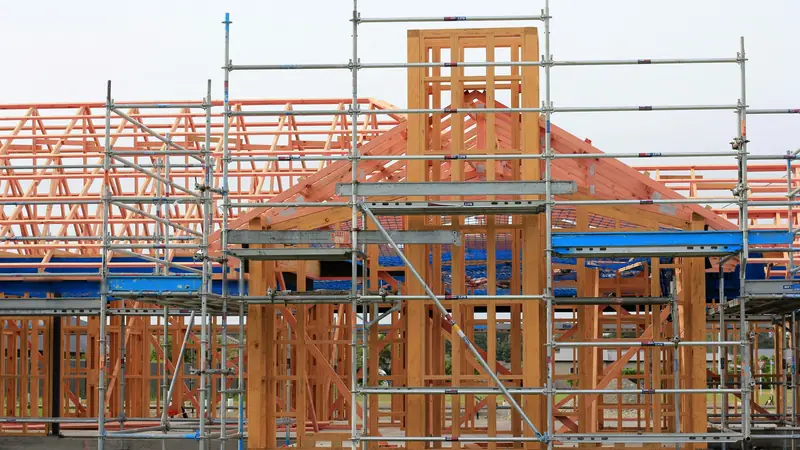
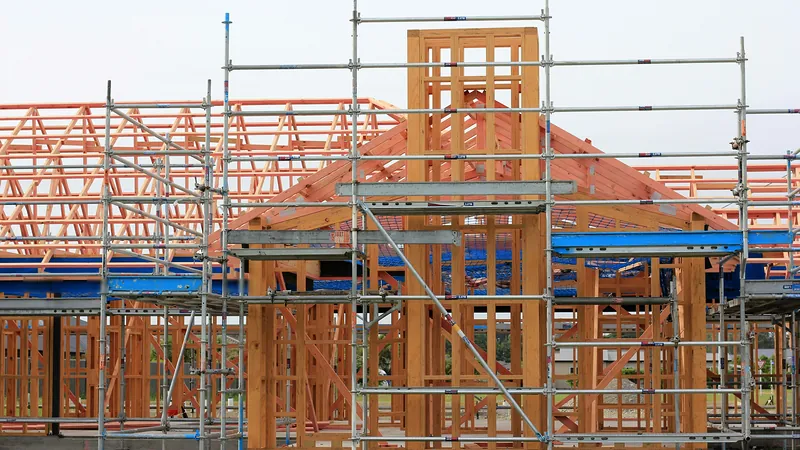
Hero photos at full resolution; the 3D house no longer slows scrolling on phones
Hero: re-cut from the 4000px retouched originals at 800/1600/2400/3200 (16:9) and 800/1200/1600 for phones
(2:3), lightly sharpened, same framing as before (the house-frame phone crop keeps its covered stickers).
3D house: the build is about 2.5x lighter (drawn grain instead of pixel read-back, no unused edge lines), and on
phones it has no idle turn, draws every other frame while a stage changes, lower pixel ratio and simpler shadows.

Claude-Session: https://claude.ai/code/session_01NUNLhJrusTmTFauQM2HaBr

Changed region(s): [[0.25, 0.3422, 0.2812, 0.3733]]

diff --git a/assets/build/s-layers-3d-model.js b/assets/build/s-layers-3d-model.js
@@ -11,13 +11,16 @@ export function build(T) {
   const LITE = root.classList.contains('lite');
   const COARSE = matchMedia('(pointer:coarse)').matches;
   const FINE = matchMedia('(pointer:fine)').matches;
-  const EDGES = !LITE;
   /* the idle turn: a page can switch it off (--l3-sway:0 on .layers-model, e.g. on phones); the model then holds a still
      frame and draws only while it explodes, settles or is dragged */
-  const SWAY = !REDUCE && getComputedStyle(box).getPropertyValue('--l3-sway').trim() !== '0';
+  let SWAY = !REDUCE && getComputedStyle(box).getPropertyValue('--l3-sway').trim() !== '0';
   /* real look: a page can ask for the house in real colours and textures on its block of land (--l3-real:1 on
      .layers-model) instead of the theme-tinted drafting model on grid paper */
   const REAL = getComputedStyle(box).getPropertyValue('--l3-real').trim() === '1';
+  /* phones (real look): no idle turn, so the house draws only while a stage changes and scrolling past it costs nothing */
+  if (REAL && COARSE) SWAY = false;
+  /* the drafting edge lines: the real look never shows them, so they are not built (a large part of the build time) */
+  const EDGES = !LITE && !REAL;
   const now = () => performance.now();
   const rad = a => a * Math.PI / 180;
 
@@ -297,12 +300,12 @@ export function build(T) {
   /* ---------- scene ---------- */
   let renderer;
   try { renderer = new T.WebGLRenderer({ antialias: !LITE, alpha: true, powerPreference: 'low-power' }); } catch (e) { return; }
-  renderer.setPixelRatio(Math.min(devicePixelRatio || 1, 1.5));
+  renderer.setPixelRatio(Math.min(devicePixelRatio || 1, REAL && COARSE ? 1.25 : 1.5));
   renderer.debug.checkShaderErrors = false; /* skips the blocking shader-log reads; the shaders are fixed and tested */
   renderer.setClearColor(0x000000, 0);
   if (REAL) { renderer.toneMapping = 4; /* ACES filmic (the slim build does not export the constant) */ renderer.toneMappingExposure = 1.05; }
   renderer.shadowMap.enabled = true;
-  renderer.shadowMap.type = T.PCFSoftShadowMap;
+  renderer.shadowMap.type = REAL && COARSE ? 1 /* PCF: simpler edges, much cheaper on phones */ : T.PCFSoftShadowMap;
   /* the shadow map is redrawn only when a layer, its fade or the sun moves, never for a camera turn alone */
   renderer.shadowMap.autoUpdate = false; renderer.shadowMap.needsUpdate = true;
   const cv = renderer.domElement; cv.className = 'l3-cv'; cv.setAttribute('aria-hidden', 'true');
@@ -320,7 +323,9 @@ export function build(T) {
   if (REAL) {
     const tex = (w, h, draw, rep) => { const c = d.createElement('canvas'); c.width = w; c.height = h; const x = c.getContext('2d'); draw(x, w, h);
       const t = new T.CanvasTexture(c); t.wrapS = t.wrapT = T.RepeatWrapping; t.colorSpace = T.SRGBColorSpace; t.anisotropy = Math.min(8, renderer.capabilities.getMaxAnisotropy()); t.userData = { rep }; return t; };
-    const noise = (x, w, h, lo, hi) => { const im = x.getImageData(0, 0, w, h), q = im.data; for (let i = 0; i < q.length; i += 4) { const n = lo + Math.random() * (hi - lo); q[i] *= n; q[i + 1] *= n; q[i + 2] *= n; } x.putImageData(im, 0, 0); };
+    /* grain: scattered light and dark specks (drawn, so no slow pixel read-back) */
+    const noise = (x, w, h, lo, hi) => { for (let i = 0, m = w * h / 5; i < m; i++) { const n = lo + Math.random() * (hi - lo);
+      x.fillStyle = n < 1 ? `rgba(0,0,0,${(1 - n).toFixed(3)})` : `rgba(255,255,255,${(n - 1).toFixed(3)})`; x.fillRect(Math.random() * w | 0, Math.random() * h | 0, 1, 1); } };
     /* Colorbond roof: ribs every 190 mm, running down the slope */
     TXR.roof = tex(32, 4, (x, w, h) => { const g = x.createLinearGradient(0, 0, w, 0); g.addColorStop(0, '#d9d9d9'); g.addColorStop(.12, '#ffffff'); g.addColorStop(.22, '#9a9a9a'); g.addColorStop(.3, '#e6e6e6'); g.addColorStop(1, '#eeeeee'); x.fillStyle = g; x.fillRect(0, 0, w, h); }, 'rib');
     /* weatherboards with a faint grain */
@@ -416,7 +421,7 @@ export function build(T) {
   const site = [];
   if (REAL) {
     ground.visible = false; grid.visible = false;
-    const S = 40, N = LITE ? 512 : 1024, k = N / S, gc = d.createElement('canvas'); gc.width = gc.height = N;
+    const S = 40, N = LITE ? 512 : COARSE ? 768 : 1024, k = N / S, gc = d.createElement('canvas'); gc.width = gc.height = N;
     const g = gc.getContext('2d'), X = x => (x + S / 2) * k, Z = z => (z + S / 2) * k;
     const rect = (c, x0, x1, z0, z1) => { g.fillStyle = c; g.fillRect(X(x0), Z(z0), (x1 - x0) * k, (z1 - z0) * k); };
     const LXW = 9, LZB = -8, LZF = 8.4;
@@ -429,7 +434,10 @@ export function build(T) {
     rect('#bdb8ae', -S / 2, S / 2, 12.2, 12.5);                                      /* the kerb */
     g.strokeStyle = 'rgba(70,60,45,.35)'; g.lineWidth = Math.max(1, k * .05); g.strokeRect(X(-LXW), Z(LZB), 2 * LXW * k, (LZF - LZB) * k); /* the boundary */
     /* grass: every pixel a slightly different green, so the lawn has texture rather than flat paint */
-    { const im = g.getImageData(0, 0, N, N), q = im.data; for (let i = 0; i < q.length; i += 4) { const n = .86 + Math.random() * .22, y = .97 + Math.random() * .06; q[i] *= n; q[i + 1] *= n * y; q[i + 2] *= n; } g.putImageData(im, 0, 0); }
+    /* (a small noise tile laid over the whole ground: a fraction of the work of noising every pixel) */
+    { const t = d.createElement('canvas'); t.width = t.height = 96; const tg = t.getContext('2d'), im = tg.createImageData(96, 96), q = im.data;
+      for (let i = 0; i < q.length; i += 4) { const v = Math.random(); q[i] = q[i + 1] = q[i + 2] = v < .5 ? 0 : 255; q[i + 3] = Math.round(Math.abs(v - .5) * 2 * 34); }
+      tg.putImageData(im, 0, 0); g.save(); g.globalCompositeOperation = 'soft-light'; g.fillStyle = g.createPattern(t, 'repeat'); g.fillRect(0, 0, N, N); g.restore(); }
     /* fade the edges out into the panel's ground */
     g.globalCompositeOperation = 'destination-in';
     const rg = g.createRadialGradient(X(0), Z(1.5), 9 * k, X(0), Z(1.5), 19.5 * k); rg.addColorStop(0, '#000'); rg.addColorStop(1, 'rgba(0,0,0,0)');
@@ -464,7 +472,7 @@ export function build(T) {
   const hemi = new T.HemisphereLight(0xffffff, 0xffffff, 2.1); scene.add(hemi);
   const sun = new T.DirectionalLight(0xffffff, 1.35);
   sun.position.set(-6, 20, 14); sun.castShadow = true;
-  const SM = LITE ? 1024 : COARSE ? 1536 : 2048;
+  const SM = LITE || (REAL && COARSE) ? 1024 : COARSE ? 1536 : 2048;
   sun.shadow.mapSize.set(SM, SM);
   Object.assign(sun.shadow.camera, { left: -19, right: 19, top: 19, bottom: -19, near: 1, far: 80 });
   sun.shadow.bias = -.0006; sun.shadow.normalBias = .03;
@@ -659,7 +667,10 @@ export function build(T) {
   let raf = 0, last = 0, onScreen = false, ready = false, sunX = NaN, sunY = NaN, sunZ = NaN;
   const scr = new T.Vector3();
   function proj(v) { scr.copy(v).project(camera); return [(scr.x + 1) / 2 * vw, (1 - scr.y) / 2 * vh]; }
+  let fc = 0;
   function frame() {
+    /* phones (real look): while a stage changes, draw every other frame; the page itself still scrolls at full rate */
+    if (REAL && COARSE && ready && !drag && (++fc & 1)) { raf = requestAnimationFrame(frame); return; }
     const t = now(); raf = 0; const dt = Math.min(50, last ? t - last : 16); last = t;
     let moving = false;
     layers.forEach(ly => { ['lift', 'on', 'dim', 'lab', 'drop', 'grow', 'cut'].forEach(k => { if (step(ly, k, t)) moving = true; }); });

diff --git a/designs/13-your-build/index.html b/designs/13-your-build/index.html
@@ -23,8 +23,8 @@
 @font-face{font-family:"Fraunces";font-style:italic;font-weight:600;font-display:swap;src:url(../../assets/fonts/fraunces-600-italic.woff2) format("woff2");unicode-range:U+0000-00FF, U+0131, U+0152-0153, U+02BB-02BC, U+02C6, U+02DA, U+02DC, U+0304, U+0308, U+0329, U+2000-206F, U+20AC, U+2122, U+2191, U+2193, U+2212, U+2215, U+FEFF, U+FFFD}
 @font-face{font-family:"Work Sans";font-style:normal;font-weight:400 600;font-display:swap;src:url(../../assets/fonts/work-sans.woff2) format("woff2");unicode-range:U+0000-00FF, U+0131, U+0152-0153, U+02BB-02BC, U+02C6, U+02DA, U+02DC, U+0304, U+0308, U+0329, U+2000-206F, U+20AC, U+2122, U+2191, U+2193, U+2212, U+2215, U+FEFF, U+FFFD}
 </style>
-<link rel="preload" as="image" href="../../img/con-site-portrait-800.webp" media="(max-width:700px) and (orientation:portrait)" fetchpriority="high">
-<link rel="preload" as="image" imagesrcset="../../img/con-site-800.webp 800w, ../../img/con-site-1600.webp 1600w, ../../img/con-site-2400.webp 2400w" imagesizes="100vw" media="not all and (max-width:700px) and (orientation:portrait)" fetchpriority="high">
+<link rel="preload" as="image" imagesrcset="../../img/con-site-portrait-800.webp 800w, ../../img/con-site-portrait-1200.webp 1200w" imagesizes="100vw" media="(max-width:700px) and (orientation:portrait)" fetchpriority="high">
+<link rel="preload" as="image" imagesrcset="../../img/con-site-800.webp 800w, ../../img/con-site-1600.webp 1600w, ../../img/con-site-2400.webp 2400w, ../../img/con-site-3200.webp 3200w" imagesizes="100vw" media="not all and (max-width:700px) and (orientation:portrait)" fetchpriority="high">
 <script>document.documentElement.classList.add('js');if(matchMedia('(pointer:coarse)').matches&&(navigator.hardwareConcurrency||8)<=4)document.documentElement.classList.add('lite')/* low-power phones, set before the first style pass */</script>
 <script src="../../assets/themes.js?v=1"></script>
 <script>if(/^\/(home-2\/?)?$/.test(location.pathname)||/[?&]design=flair\b/.test(location.search))document.documentElement.classList.add('flair')</script>
@@ -267,7 +267,7 @@ input:focus,select:focus,textarea:focus{outline:2px solid var(--rust);outline-of
 <link rel="stylesheet" href="../../assets/build/harbour.css?v=1">
 <link rel="stylesheet" href="../../assets/build/grad.css?v=1">
 <link rel="stylesheet" href="../../assets/build/land.css?v=9">
-<script type="module" src="../../assets/build/s-layers-3d.js?v=10" fetchpriority="low"></script>
+<script type="module" src="../../assets/build/s-layers-3d.js?v=12" fetchpriority="low"></script>
 </head>
 <body>
 <a class="skip" href="#main">Skip to content</a>
@@ -304,8 +304,8 @@ input:focus,select:focus,textarea:focus{outline:2px solid var(--rust);outline-of
   </svg>
   <!-- building work: this first photo is the LCP; hero-sydney.js adds roof trusses, a high-rise and a house frame after load -->
   <div class="hero-img" data-scenes="con-trusses con-tower con-frame">
-    <picture><source media="(max-width:700px) and (orientation:portrait)" srcset="../../img/con-site-portrait-800.webp" width="800" height="1200">
-    <img src="../../img/con-site-1600.webp" srcset="../../img/con-site-800.webp 800w, ../../img/con-site-1600.webp 1600w, ../../img/con-site-2400.webp 2400w" sizes="100vw" width="1600" height="900" alt="Cranes at work beside new office towers in Parramatta, Sydney" fetchpriority="high" decoding="async"></picture>
+    <picture><source media="(max-width:700px) and (orientation:portrait)" srcset="../../img/con-site-portrait-800.webp 800w, ../../img/con-site-portrait-1200.webp 1200w" sizes="100vw" width="800" height="1200">
+    <img src="../../img/con-site-1600.webp" srcset="../../img/con-site-800.webp 800w, ../../img/con-site-1600.webp 1600w, ../../img/con-site-2400.webp 2400w, ../../img/con-site-3200.webp 3200w" sizes="100vw" width="1600" height="900" alt="Cranes at work beside new office towers in Parramatta, Sydney" fetchpriority="high" decoding="async"></picture>
   </div>
   <p class="hero-note sc">Illustrative photo</p>
   <div class="door">
@@ -1018,7 +1018,7 @@ input:focus,select:focus,textarea:focus{outline:2px solid var(--rust);outline-of
 <script src="../../assets/concepts.js?v=6" defer></script>
 <script src="../../assets/build/book.js?v=5" defer></script>
 <script src="../../assets/build/your-build.js?v=6" defer></script>
-<script src="../../assets/build/hero-sydney.js?v=3" defer></script>
+<script src="../../assets/build/hero-sydney.js?v=4" defer></script>
 <script src="../../assets/build/svc-plus.js?v=4" defer></script>
 <script src="../../assets/build/energy.js?v=3" defer></script>
 <script src="../../assets/build/flair.js?v=2" defer></script>

diff --git a/assets/build/hero-sydney.js b/assets/build/hero-sydney.js
@@ -17,8 +17,8 @@
       var f = d.createElement('div');
       f.className = 'hs-scene';
       f.setAttribute('aria-hidden', 'true');
-      f.innerHTML = '<picture><source media="(max-width:700px) and (orientation:portrait)" srcset="' + dir + n + '-portrait-800.webp" width="800" height="1200">' +
-        '<img src="' + dir + n + '-1600.webp" srcset="' + dir + n + '-800.webp 800w, ' + dir + n + '-1600.webp 1600w, ' + dir + n + '-2400.webp 2400w" sizes="100vw" width="1600" height="900" alt="" decoding="async"></picture>';
+      f.innerHTML = '<picture><source media="(max-width:700px) and (orientation:portrait)" srcset="' + dir + n + '-portrait-800.webp 800w, ' + dir + n + '-portrait-1200.webp 1200w, ' + dir + n + '-portrait-1600.webp 1600w" sizes="100vw" width="800" height="1200">' +
+        '<img src="' + dir + n + '-1600.webp" srcset="' + dir + n + '-800.webp 800w, ' + dir + n + '-1600.webp 1600w, ' + dir + n + '-2400.webp 2400w, ' + dir + n + '-3200.webp 3200w" sizes="100vw" width="1600" height="900" alt="" decoding="async"></picture>';
       box.appendChild(f);
       layers.push(f);
     });

diff --git a/assets/build/hero-sydney.css b/assets/build/hero-sydney.css
@@ -9,7 +9,9 @@
         con-tower    Peaky_82 (@peaky_82), Sydney NSW: unsplash.com/photos/PW8qbHg0KfM
         con-frame    Sandy Millar (@sandym10): unsplash.com/photos/u1KG_wZTnkg
       Third-party names were retouched out (rooftop signs on con-site, the crane cab on con-tower, the building wrap
-      on con-frame) and the site hoarding is cropped off. Crops: img/con-*.webp.
+      on con-frame) and the site hoarding is cropped off. Crops: img/con-*.webp, cut from the 4000px retouched
+      originals at 800/1600/2400/3200 wide (16:9) and 800/1200/1600 wide for phones (2:3), so phones and sharp
+      laptop screens get full resolution.
    2. The heading writes itself once on load: each phrase is revealed left to right by a soft-edged mask, with a thin
       accent pen at the leading edge. The text is in the DOM and painted (faintly) from the first frame, it keeps its
       layout, and the mask comes off when the stroke ends. Reduced motion: the heading shows at once. */

diff --git a/assets/build/s-layers-3d.js b/assets/build/s-layers-3d.js
@@ -21,7 +21,7 @@ if (box && 'IntersectionObserver' in window && 'ResizeObserver' in window) {
       io.disconnect();
       idle(() => {
         if (!hasGL()) return;
-        Promise.all([import('../vendor/three/three.slim.min.js'), import('./s-layers-3d-model.js?v=10')])
+        Promise.all([import('../vendor/three/three.slim.min.js'), import('./s-layers-3d-model.js?v=12')])
           .then(([T, M]) => new Promise((ok, no) => idle(() => { try { ok(M.build(T)); } catch (e) { no(e); } })))
           .catch(() => { box.classList.remove('gl'); });
       });

diff --git a/designs/11-the-build/index.html b/designs/11-the-build/index.html
@@ -354,7 +354,7 @@ input:focus,select:focus,textarea:focus{outline:2px solid var(--rust);outline-of
 <link rel="stylesheet" href="../../assets/build/s-sketch.css?v=1">
 <link rel="stylesheet" href="../../assets/build/s-hero.css?v=1">
 <link rel="stylesheet" href="../../assets/build/s-modern.css?v=1">
-<script type="module" src="../../assets/build/s-layers-3d.js?v=10" fetchpriority="low"></script>
+<script type="module" src="../../assets/build/s-layers-3d.js?v=12" fetchpriority="low"></script>
 </head>
 <body>
 <a class="skip" href="#main">Skip to content</a>
